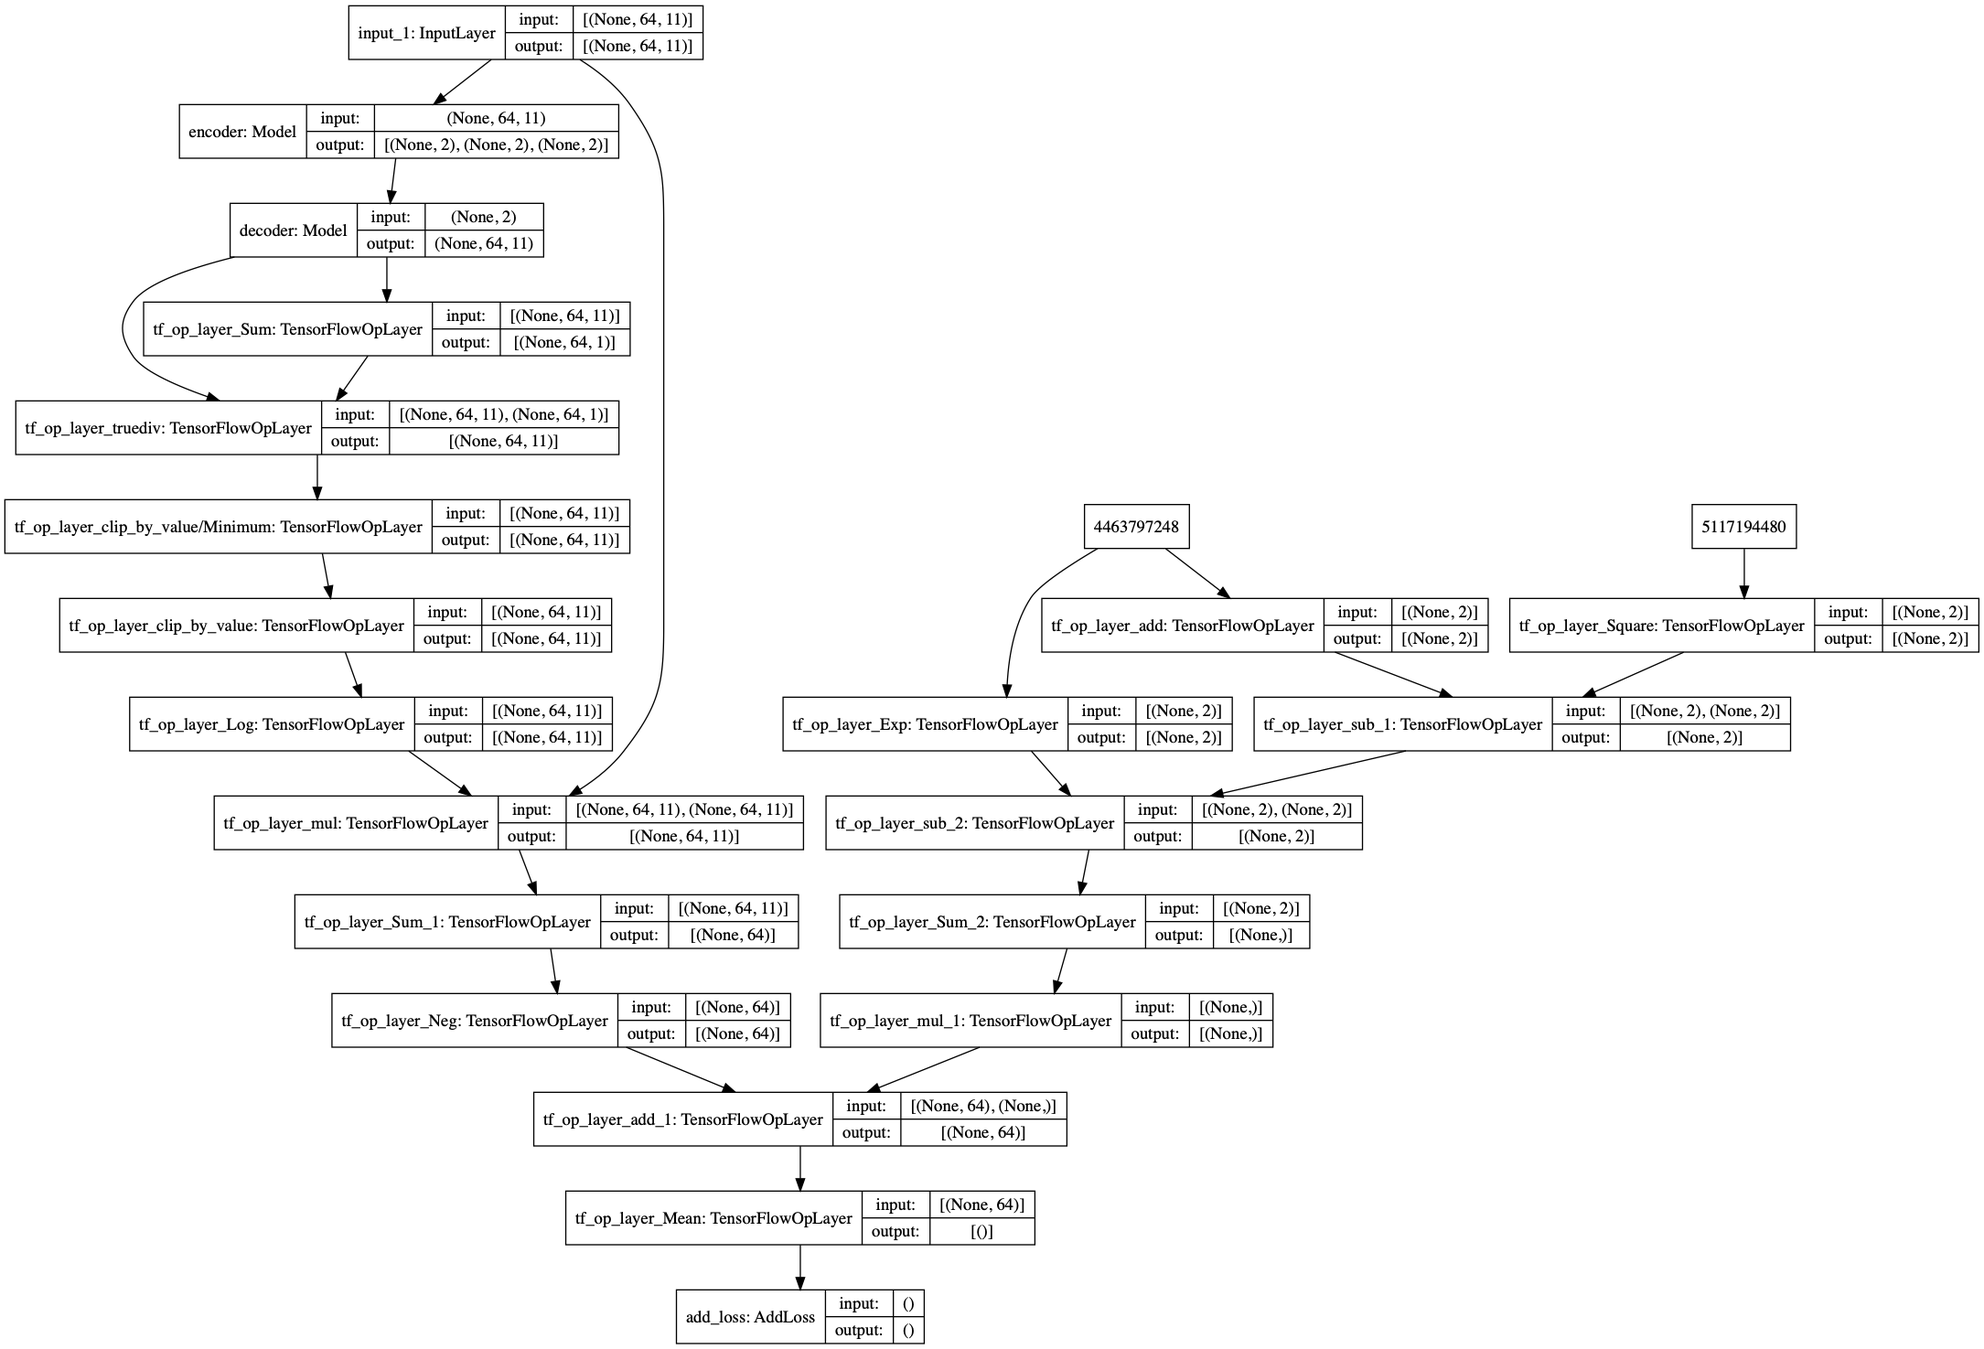
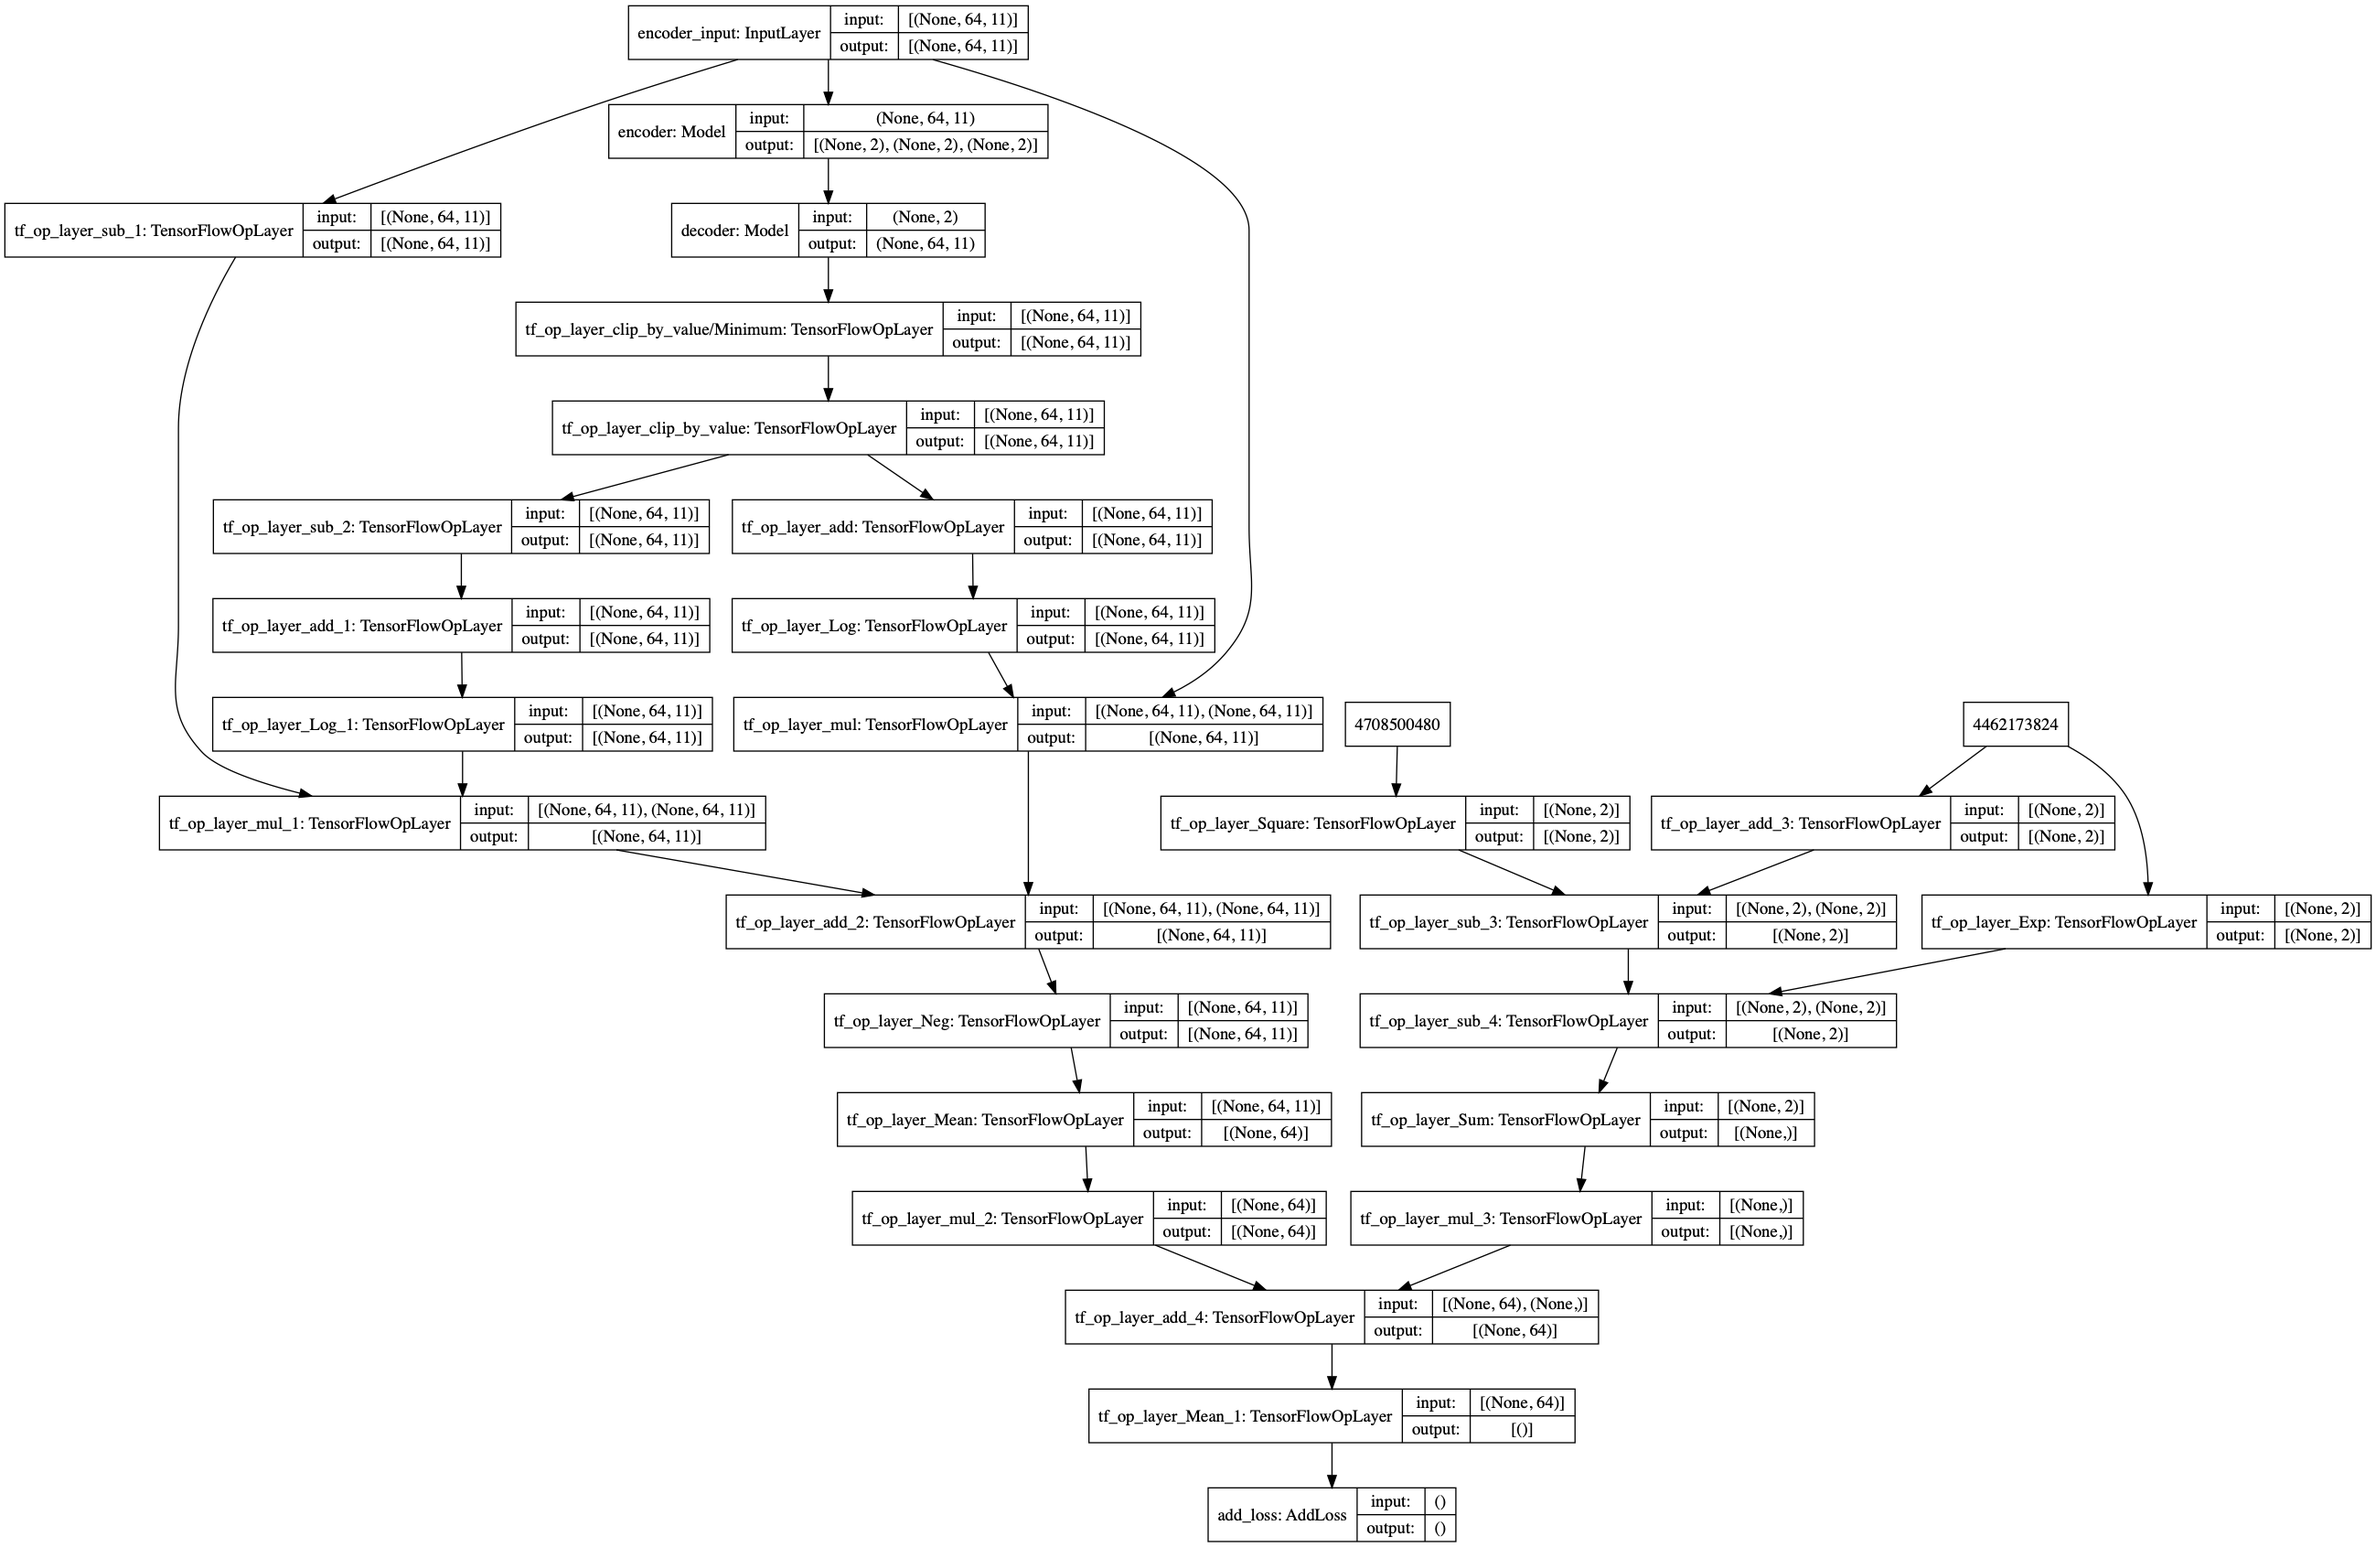
add tf based VAE

Changed region(s): [[0.0, 0.0, 1.0, 0.998], [0.8649, 0.3742, 0.8958, 0.4054], [0.556, 0.3742, 0.5869, 0.4054]]

diff --git a/VAE_keras_test.py b/VAE_keras_test.py
@@ -11,8 +11,8 @@ import matplotlib.pyplot as plt
 import argparse
 import os
 
-
-from tensorflow.python.keras.utils import plot_model
+from tensorflow.python.keras.backend import mean
+from tensorflow.python.keras.utils.vis_utils import plot_model
 
 from utils.MIDI_utils import load_sample_unsupervised
 
@@ -28,11 +28,10 @@ def sampling(args):
     batch = K.shape(z_mean)[0]
     dim = K.int_shape(z_mean)[1]
     # by default, random_normal has mean = 0 and std = 1.0
-    epsilon = K.random_normal(shape=(batch, dim))
+    epsilon = tf.random.normal(shape=(batch, dim))
     return z_mean + K.exp(0.5 * z_log_var) * epsilon
 
 # script body ##########################################################################################################
-
 data_dir = 'data/schubert'
 input_timesteps = 64
 f_threshold = 50
@@ -52,10 +51,11 @@ epochs = 50
 
 # VAE model = encoder + decoder
 # build encoder model
-inputs = tf.keras.Input(shape=(input_timesteps, num_classes))
-hidden_encoder = tf.keras.layers.Bidirectional(tf.keras.layers.LSTM(intermediate_dim))(inputs)
-z_mean = tf.keras.layers.Dense(latent_dim, name='z_mean')(hidden_encoder)
-z_log_var = tf.keras.layers.Dense(latent_dim, name='z_log_var')(hidden_encoder)
+inputs = tf.keras.Input(shape=(input_timesteps, num_classes), name='encoder_input')
+# x = tf.keras.layers.Reshape(target_shape=(input_timesteps, num_classes))(inputs)
+x = tf.keras.layers.Bidirectional(tf.keras.layers.LSTM(intermediate_dim))(inputs)
+z_mean = tf.keras.layers.Dense(latent_dim, name='z_mean')(x)
+z_log_var = tf.keras.layers.Dense(latent_dim, name='z_log_var')(x)
 
 # use reparameterization trick to push the sampling out as input
 # note that "output_shape" isn't necessary with the TensorFlow backend
@@ -65,33 +65,49 @@ z = tf.keras.layers.Lambda(sampling, output_shape=(latent_dim,), name='z')([z_me
 encoder = tf.keras.Model(inputs, [z_mean, z_log_var, z], name='encoder')
 encoder.summary()
 plot_model(encoder, to_file='figs/vae_mlp_encoder.png', show_shapes=True)
+
 # build decoder layers
 latent_inputs = tf.keras.layers.Input(shape=(latent_dim, ), name='z_sampling')
-hidden_decoder = tf.keras.layers.Dense(input_timesteps, activation='relu')(latent_inputs)
-hidden_decoder = tf.keras.layers.Reshape(target_shape=(input_timesteps, 1))(hidden_decoder)
-hidden_decoder = tf.keras.layers.LSTM(intermediate_dim, return_sequences=True)(hidden_decoder)
-outputs = tf.keras.layers.TimeDistributed(tf.keras.layers.Dense(num_classes, activation='softmax'))(hidden_decoder)
-# hidden_decoder = tf.keras.layers.Dense(latent_steps * latent_dim)(latent_inputs)
-# hidden_decoder = tf.keras.layers.Reshape(target_shape=(latent_steps, latent_dim))(hidden_decoder)
-# hidden_decoder = tf.keras.layers.Bidirectional(tf.keras.layers.LSTM(intermediate_dim))(hidden_decoder)
-# outputs = tf.keras.layers.TimeDistributed(Dense(len(unique_x), activation='sigmoid')(hidden_decoder))
+# x = tf.keras.layers.Dense(input_timesteps, activation='relu')(latent_inputs)
+# x = tf.keras.layers.Reshape(target_shape=(input_timesteps, 1))(x)
+x = tf.keras.layers.RepeatVector(input_timesteps)(latent_inputs)
+
+# A ################################################################
+# x = tf.keras.layers.LSTM(intermediate_dim, return_sequences=True)(x)
+# x = tf.keras.layers.Flatten()(x)
+# x = tf.keras.layers.Dense(input_timesteps * num_classes, activation='softmax')(x)
+# outputs = tf.keras.layers.Reshape(target_shape=(input_timesteps, num_classes))(x)
+# B ################################################################
+x = tf.keras.layers.LSTM(intermediate_dim, return_sequences=True)(x)
+outputs = tf.keras.layers.LSTM(num_classes, return_sequences=True)(x)
+
+# outputs = tf.keras.layers.TimeDistributed(tf.keras.layers.Dense(num_classes, activation='softmax'))(x)
+# C ################################################################
+# x = tf.keras.layers.LSTM(intermediate_dim)(x)
+# x = tf.keras.layers.Dense(input_timesteps * num_classes, activation='softmax')(x)
+# outputs = tf.keras.layers.Reshape(target_shape=(input_timesteps, num_classes))(x)
+# D ################################################################
+# x = tf.keras.layers.LSTM(intermediate_dim)(x)
+# outputs = tf.keras.layers.Dense(input_timesteps * num_classes, activation='softmax')(x)
+####################################################################
 # instantiate decoder model
 decoder = tf.keras.Model(latent_inputs, outputs, name='decoder')
 decoder.summary()
 plot_model(decoder, to_file='figs/vae_mlp_decoder.png', show_shapes=True)
+
 # instantiate VAE model
+outputs = decoder(encoder(inputs)[2])  # connect the decoder with the encoder
 vae = tf.keras.Model(inputs, outputs, name='vae_mlp')
-plot_model(vae, to_file='figs/vae_mlp.png', show_shapes=True)
+
 # training the model
-models = (encoder, decoder)
-reconstruction_loss = categorical_crossentropy(inputs, outputs)  # use sparse because class are in integers
+reconstruction_loss = binary_crossentropy(inputs, outputs)
 reconstruction_loss *= original_dim
 kl_loss = 1 + z_log_var - K.square(z_mean) - K.exp(z_log_var)
 kl_loss = K.sum(kl_loss, axis=-1)
 kl_loss *= -0.5
-vae_loss = K.mean(reconstruction_loss + kl_loss)
+vae_loss = mean(reconstruction_loss + kl_loss)
 vae.add_loss(vae_loss)
-vae.compile(optimizer='adam', loss='categorical_crossentropy')
+vae.compile(optimizer='adam')
 vae.summary()
 plot_model(vae, to_file='figs/vae_mlp.png', show_shapes=True)
-vae.fit(x_train, epochs=epochs, batch_size=batch_size, validation_data=(x_test, None))
+# vae.fit(x_train, epochs=epochs, batch_size=batch_size, validation_data=(x_test, None))

diff --git a/VAE_tf_test.py b/VAE_tf_test.py
@@ -1,0 +1,131 @@
+import tensorflow as tf
+
+import os
+import time
+import numpy as np
+import glob
+import matplotlib.pyplot as plt
+import PIL
+import imageio
+
+from utils.MIDI_utils import load_sample_unsupervised
+
+NUM_CLASSES = 167
+TIMESTEPS = 64
+
+class RVAE(tf.keras.Model):
+    def __init__(self, latent_dim):
+        super(RVAE, self).__init__()
+        self.latent_dim = latent_dim
+        self.inference_net = tf.keras.Sequential(
+            [
+                tf.keras.layers.InputLayer(input_shape=(TIMESTEPS, NUM_CLASSES)),
+                tf.keras.layers.Bidirectional(tf.keras.layers.LSTM(64)),
+                # No activation
+                tf.keras.layers.Dense(latent_dim + latent_dim),
+            ]
+        )
+
+        self.generative_net = tf.keras.Sequential(
+            [
+                tf.keras.layers.InputLayer(input_shape=(latent_dim,)),
+                tf.keras.layers.Dense(units=64, activation=tf.nn.relu),
+                tf.keras.layers.Reshape(target_shape=(64, 1)),
+                tf.keras.layers.LSTM(TIMESTEPS, return_sequences=True),
+                # No activation
+                tf.keras.layers.LSTM(NUM_CLASSES, return_sequences=True, activation='softmax')
+            ]
+        )
+
+    @tf.function
+    def sample(self, eps=None):
+        if eps is None:
+            eps = tf.random.normal(shape=(100, self.latent_dim))
+        return self.decode(eps, apply_sigmoid=True)
+
+    def encode(self, x):
+        mean, logvar = tf.split(self.inference_net(x), num_or_size_splits=2, axis=1)
+        return mean, logvar
+
+    def reparameterize(self, mean, logvar):
+        eps = tf.random.normal(shape=mean.shape)
+        return eps * tf.exp(logvar * .5) + mean
+
+    def decode(self, z, apply_sigmoid=False):
+        logits = self.generative_net(z)
+        if apply_sigmoid:
+            probs = tf.sigmoid(logits)
+            return probs
+
+        return logits
+
+
+optimizer = tf.keras.optimizers.Adam(1e-3)
+
+
+def log_normal_pdf(sample, mean, logvar, raxis=1):
+    log2pi = tf.math.log(2. * np.pi)
+    return tf.reduce_sum(
+        -.5 * ((sample - mean) ** 2. * tf.exp(-logvar) + logvar + log2pi),
+        axis=raxis)
+
+
+@tf.function
+def compute_loss(model, x):
+    mean, logvar = model.encode(x)
+    z = model.reparameterize(mean, logvar)
+    x_logit = model.decode(z)
+
+    cross_ent = tf.nn.softmax_cross_entropy_with_logits(logits=x_logit, labels=x)
+    print(cross_ent.shape)
+    logpx_z = -tf.reduce_sum(cross_ent, axis=[1])
+    logpz = log_normal_pdf(z, 0., 0.)
+    logqz_x = log_normal_pdf(z, mean, logvar)
+    return -tf.reduce_mean(logpx_z + logpz - logqz_x)
+
+
+@tf.function
+def compute_apply_gradients(model, x, optimizer):
+    with tf.GradientTape() as tape:
+        loss = compute_loss(model, x)
+    gradients = tape.gradient(loss, model.trainable_variables)
+    optimizer.apply_gradients(zip(gradients, model.trainable_variables))
+
+
+data_dir = 'data/schubert'
+input_timesteps = 64
+f_threshold = 50
+x_train, x_test, one_hot_encoder = load_sample_unsupervised(data_dir, input_timesteps, f_threshold)
+
+TRAIN_BUF = len(x_train)
+TEST_BUF = len(x_test)
+BATCH_SIZE = 1024
+
+train_dataset = tf.data.Dataset.from_tensor_slices(x_train).shuffle(TRAIN_BUF).batch(BATCH_SIZE)
+test_dataset = tf.data.Dataset.from_tensor_slices(x_test).shuffle(TEST_BUF).batch(BATCH_SIZE)
+
+epochs = 100
+latent_dim = 2
+num_examples_to_generate = 16
+
+# keeping the random vector constant for generation (prediction) so
+# it will be easier to see the improvement.
+random_vector_for_generation = tf.random.normal(
+    shape=[num_examples_to_generate, latent_dim])
+model = RVAE(latent_dim)
+
+for epoch in range(1, epochs + 1):
+    start_time = time.time()
+    for train_x in train_dataset:
+        compute_apply_gradients(model, train_x, optimizer)
+    end_time = time.time()
+
+    if epoch % 1 == 0:
+        loss = tf.keras.metrics.Mean()
+        for test_x in test_dataset:
+            loss(compute_loss(model, test_x))
+        elbo = -loss.result()
+        print('Epoch: {}, Test set ELBO: {}, '
+              'time elapse for current epoch {}'.format(epoch,
+                                                        elbo,
+                                                        end_time - start_time))

diff --git a/utils/MIDI_utils.py b/utils/MIDI_utils.py
@@ -91,7 +91,8 @@ def prepare_xy(music, window_size):
 def prepare_x(music_list, window_size, stride=1):
     x = []
     encoder = OneHotEncoder()
-    encoder.fit(np.expand_dims(np.ravel(music_list), axis=-1))
+    flat = [item for sublist in music_list for item in sublist]
+    encoder.fit(np.expand_dims(flat, axis=-1))
     for note_ in music_list:
         for i in range(0, len(note_) - window_size, stride):
             input_ = note_[i:i + window_size]
@@ -198,9 +199,8 @@ def load_samples(data_dir, timesteps, f_threshold, _use_spark=False):
     return x_tr, x_val, y_tr, y_val, unique_x, unique_y
 
 
-def load_sample_unsupervised(data_dir, timesteps, f_threshold, _use_spark=False):
+def load_sample_unsupervised(data_dir, timesteps, f_threshold, _use_spark=True):
     files = [x for x in os.listdir(data_dir) if x.split('.')[-1] == 'mid']  # read all the files end with mid
-    files = files[:1]
 
     if _use_spark:
         spark_location = '/Users/Leo/spark-2.4.3-bin-hadoop2.7'  # Set your own
